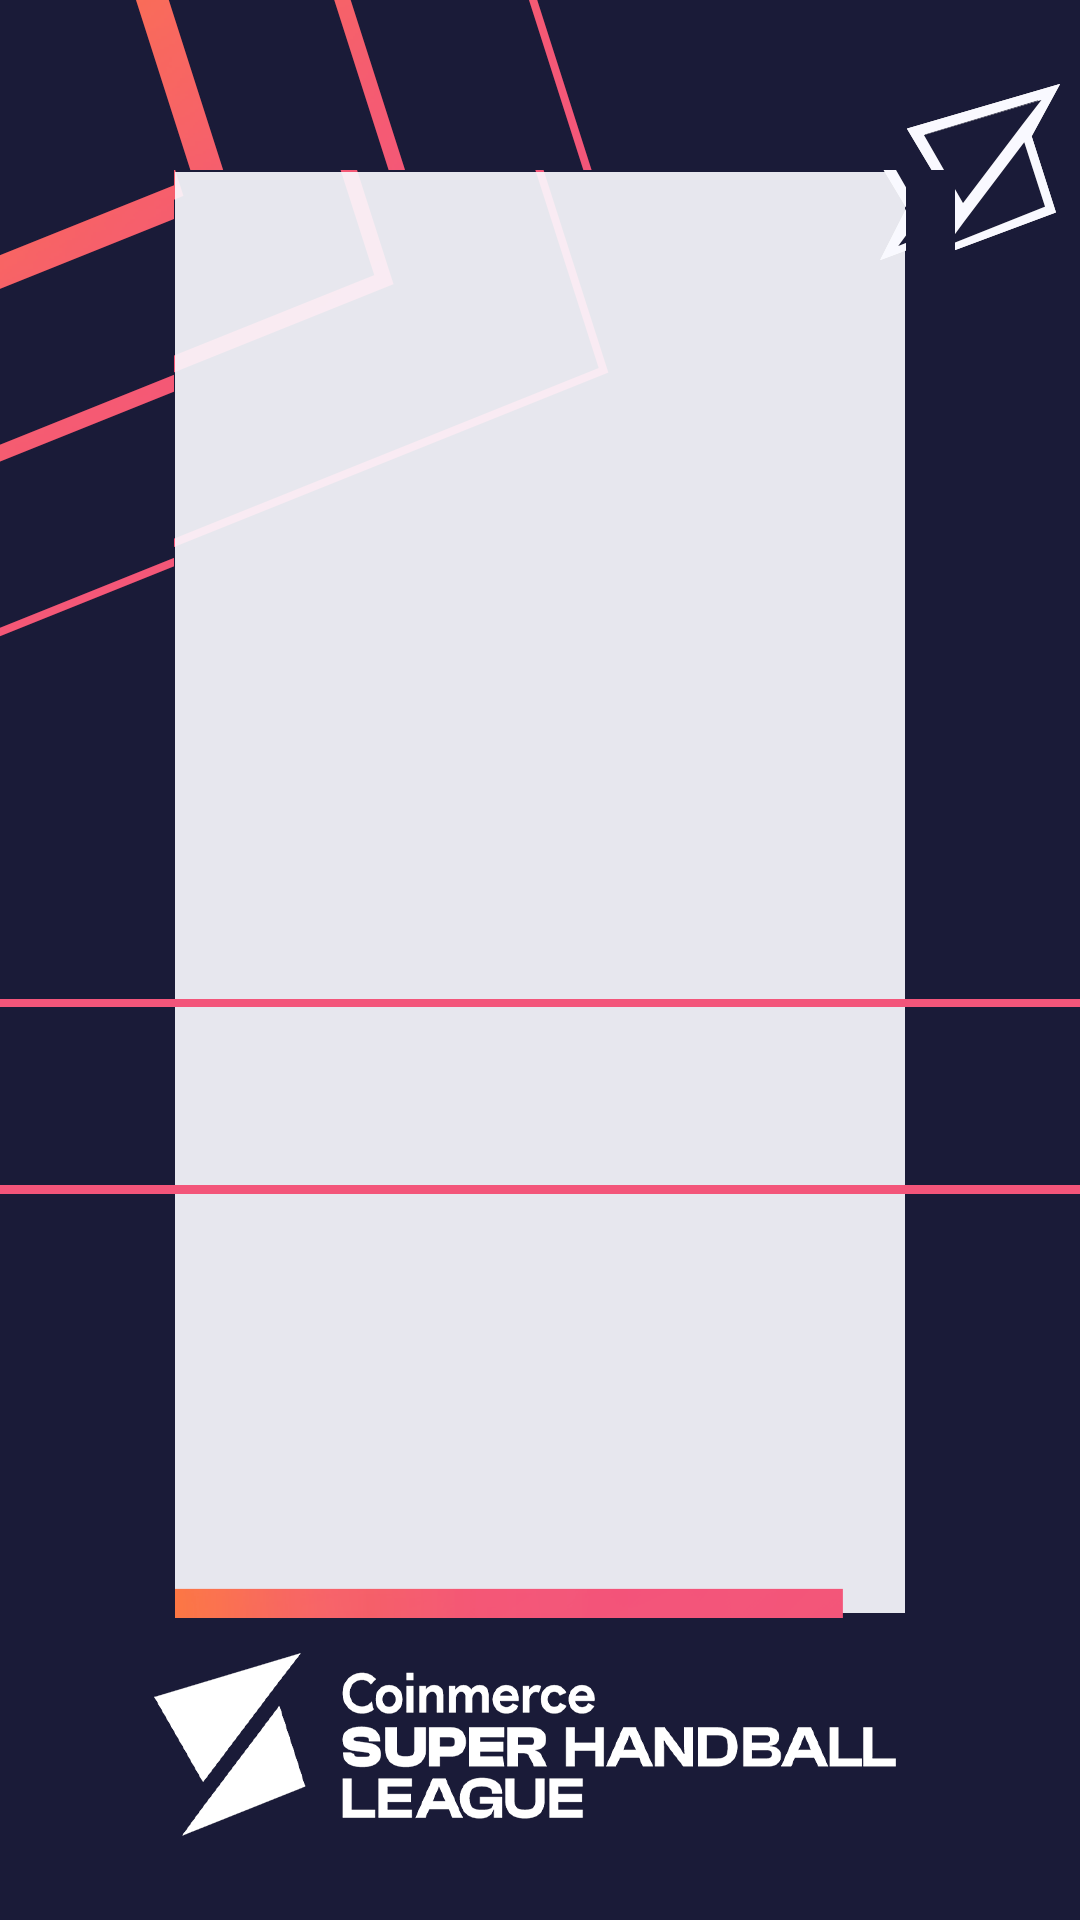
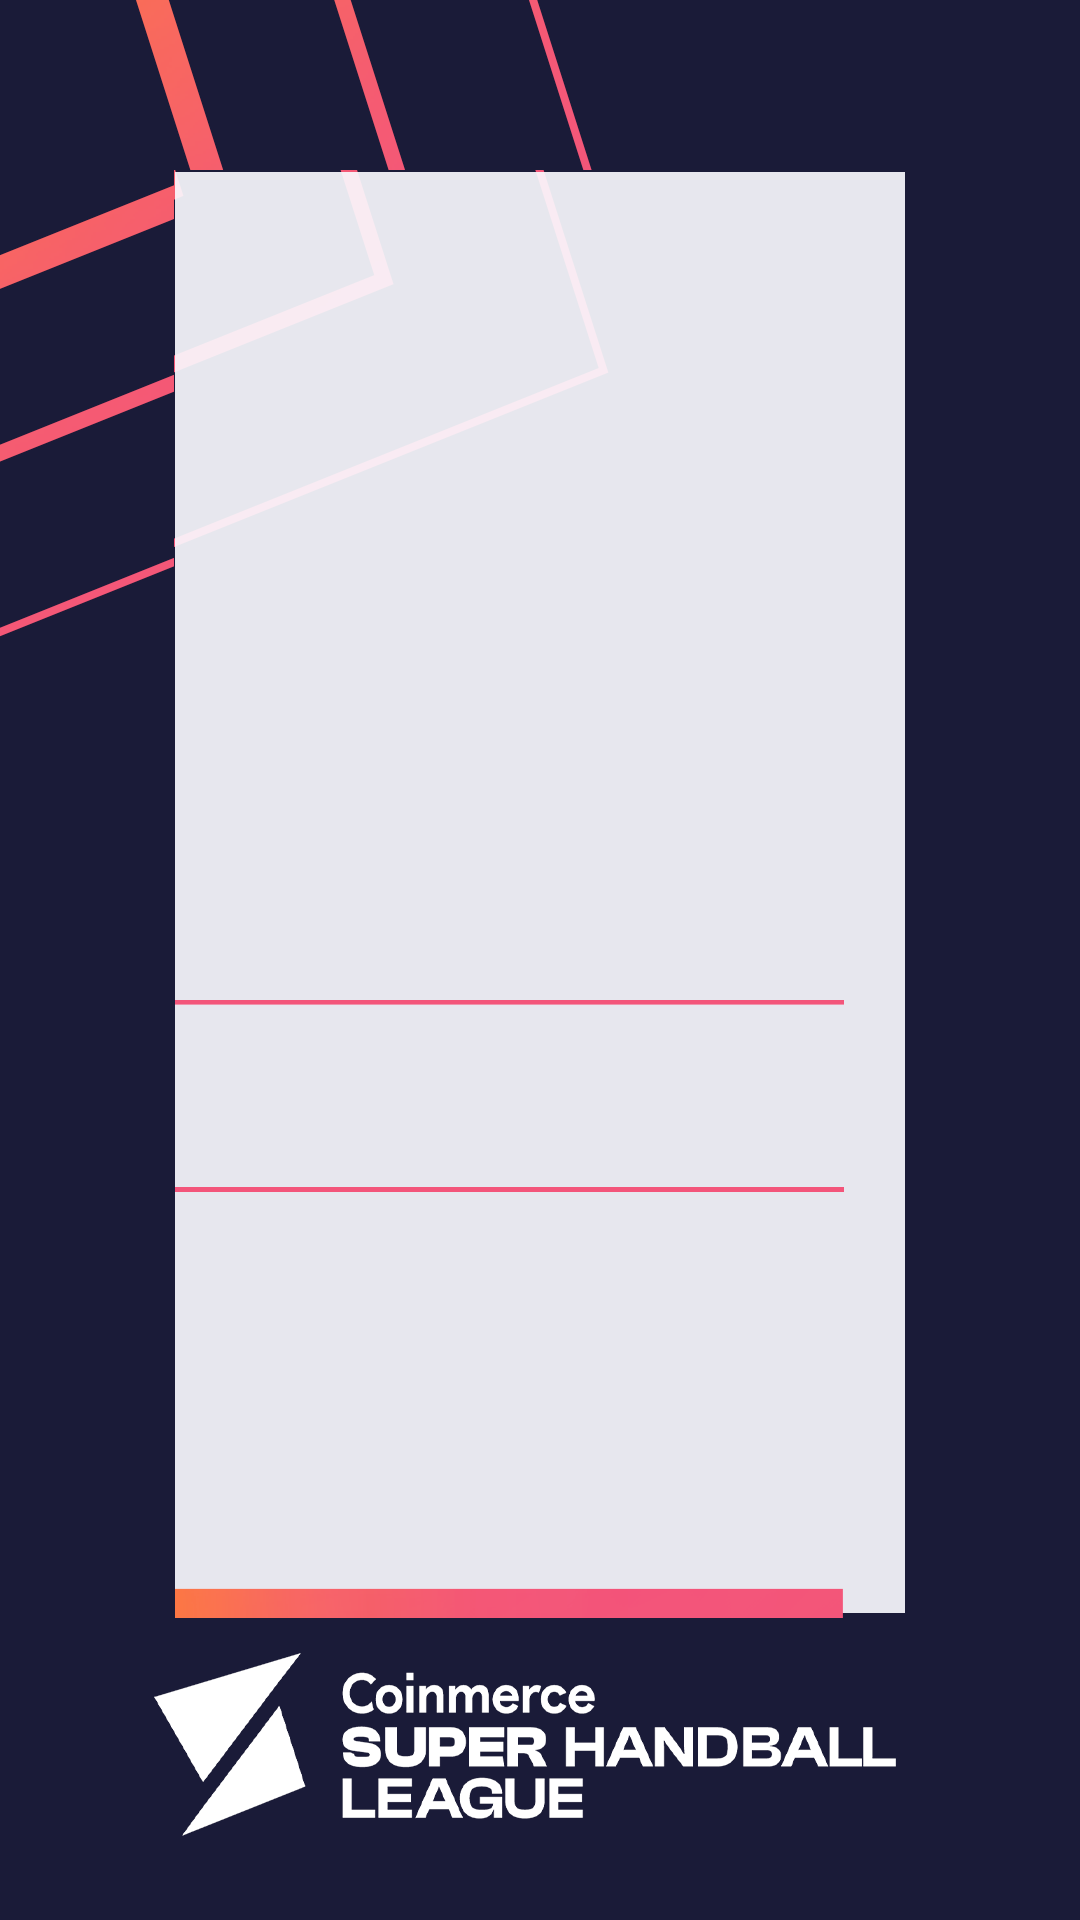
Fix Ranking mark artifact, row spacing, and font size precisely
- Extracted the corner mark icon as its own standalone asset instead of
  baking it into the background composite — it was getting duplicated/
  clipped ("half icon") whenever the card underneath got repositioned,
  since it overlapped the card's old bounds. Drawing it independently
  fixes that at the source and is robust to any future card changes.
- Reverted the divider lines back to card-width (a prior "extend them"
  reading was wrong per feedback — they looked bad running edge to edge).
- Row top/height are now solved algebraically from the two divider
  lines' real positions (after row 8 and row 10) instead of the badge
  asset's raw bounding box, which didn't divide evenly into 14 rows
  aligned with those dividers — rows 9/10 sat off-center between them.
- Data font size corrected 36px -> 60px: measured this font's actual
  cap-height ratio (~0.667x the CSS size) against the reference's ~40px
  cap-height and solved backwards, instead of continuing to eyeball it.

diff --git a/story-generator/script.js b/story-generator/script.js
@@ -138,13 +138,21 @@
   // Measured directly off the current PSD (its own layout was updated since
   // this was first built), then shifted 48px left so the card sits centered
   // on the 1080-wide canvas instead of the PSD's own off-center placement.
-  const RANK_ROW_TOP = 245, RANK_ROW_BOTTOM = 1601, RANK_ROWS = 14;
-  const RANK_ROW_H = (RANK_ROW_BOTTOM - RANK_ROW_TOP) / RANK_ROWS;
+  // Row top/height are solved from the two divider lines' actual positions
+  // (999-1006 and 1185-1193, i.e. after row 8 and row 10) rather than the
+  // badge asset's own bounding box, which didn't divide evenly into 14
+  // equal rows aligned with those dividers.
+  const RANK_ROWS = 14;
+  const RANK_ROW_H = 93.25, RANK_ROW_TOP = 256.5;
   const RANK_BADGE_CX = 341, RANK_BADGE_SIZE = 74, RANK_BADGE_PAD = 6;
   const RANK_NUM_X = 215, RANK_CODE_X = 424, RANK_P_X = 615, RANK_PTS_X = 752;
-  const RANK_HEADER_Y = 236, RANK_HEADER_FONT = 24;
-  const RANK_DATA_FONT = 36;
+  const RANK_HEADER_Y = 236, RANK_HEADER_FONT = 36;
+  // Calibrated so the rendered cap-height matches the reference (measured
+  // ~40px there): this font's cap-height is ~0.667x its CSS size, so 60px
+  // gets back to a 40px cap-height — the previous 36px was undersized.
+  const RANK_DATA_FONT = 60;
   const RANK_TEXT_COLOR = '#14142b';
+  const RANK_MARK = { x: 907, y: 84, w: 153, h: 176 };
 
   const rankState = Array.from({ length: RANK_ROWS }, () => ({ code: '', p: '', pts: '' }));
 
@@ -1096,6 +1104,13 @@
     const bg = loadImg('assets/ranking/background.png');
     if (bg && bg.complete && bg.naturalWidth) {
       ctx.drawImage(bg, 0, 0, CANVAS_W, CANVAS_H);
+    }
+
+    // Drawn as its own asset (not baked into the background) so it never
+    // moves or gets clipped when the card underneath is repositioned.
+    const mark = loadImg('assets/ranking/mark.png');
+    if (mark && mark.complete && mark.naturalWidth) {
+      ctx.drawImage(mark, RANK_MARK.x, RANK_MARK.y, RANK_MARK.w, RANK_MARK.h);
     }
 
     const fontFamily = fontReady ? 'ClashDisplay' : 'Arial';
